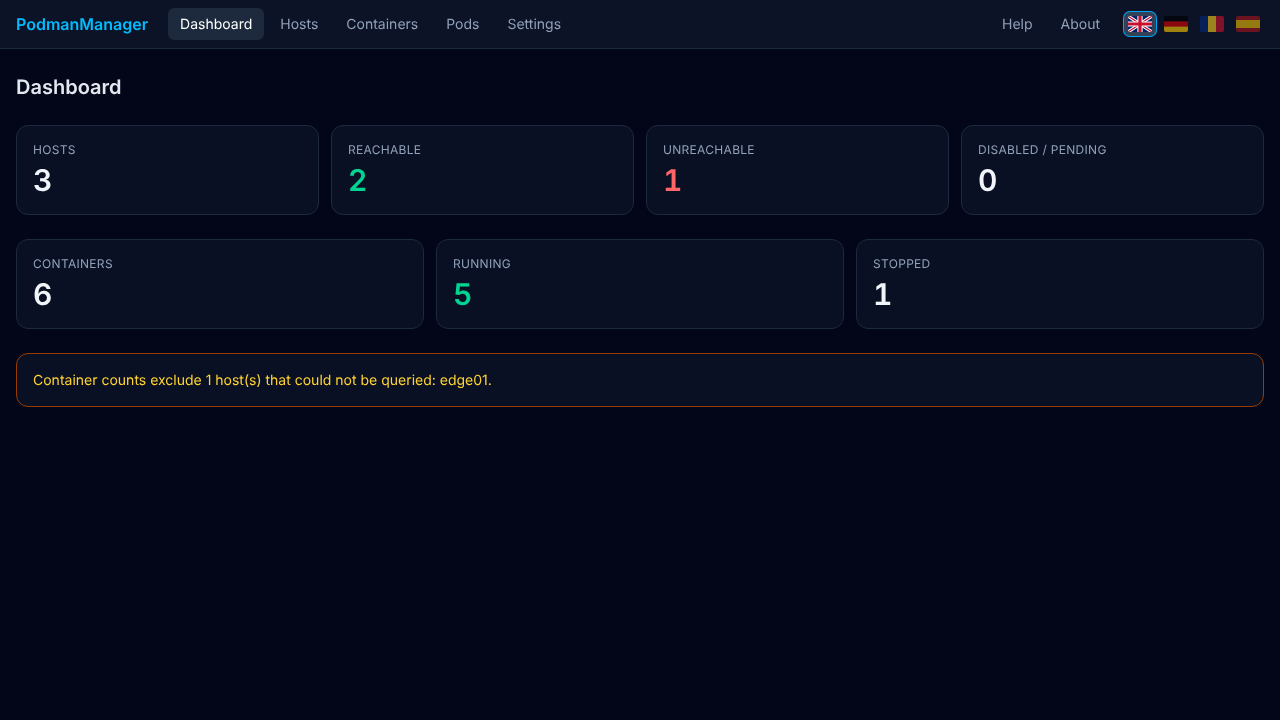
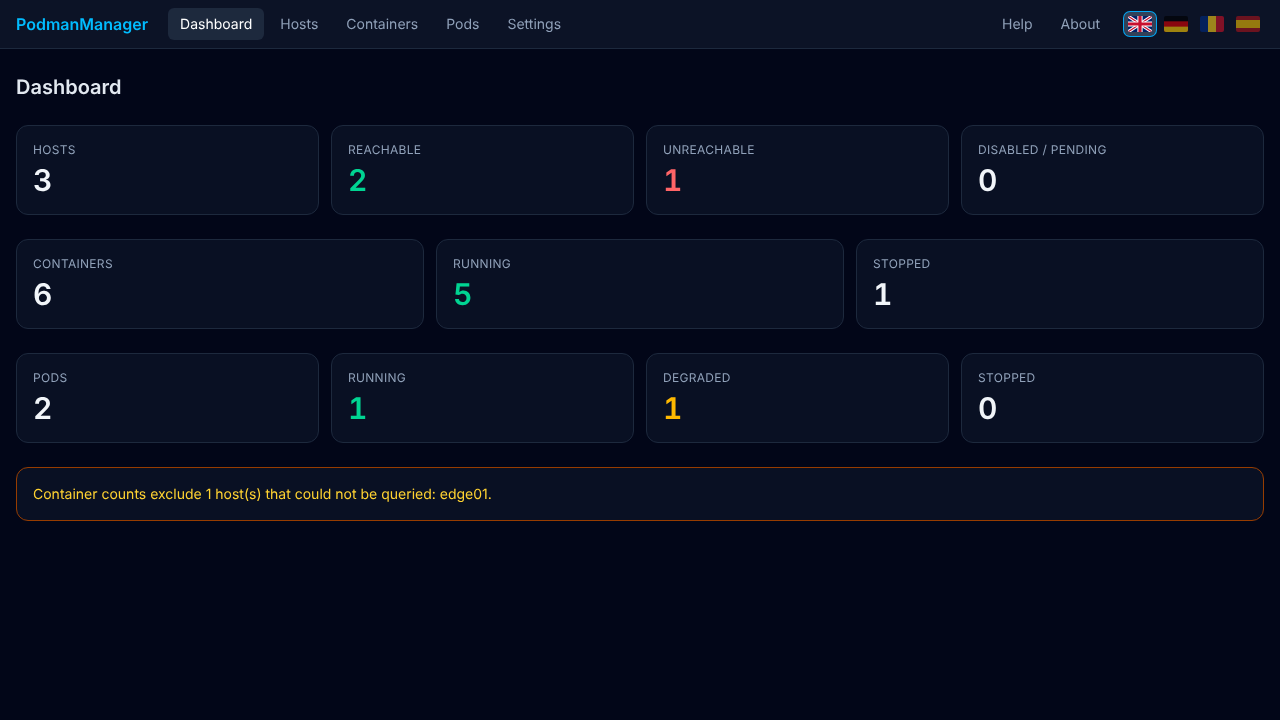
Dashboard: pod statistics (pods, running, degraded, stopped) (#35)
Shown below the container statistics; agents that do not answer the pod query (older than 0.6.0)
are listed in a note. README dashboard screenshots refreshed.

Claude-Session: https://claude.ai/code/session_01Mw1eJcjz1zhTj6DqA4m2yv

diff --git a/apps/master/src/lib/i18n.ts b/apps/master/src/lib/i18n.ts
@@ -15,6 +15,11 @@ const en = {
   "dash.other": "Disabled / pending", "dash.containers": "Containers", "dash.running": "Running", "dash.stopped": "Stopped",
   "dash.excluded": "Container counts exclude {n} host(s) that could not be queried: {names}.",
   "dash.empty": "No hosts registered yet. Add an agent under Hosts.",
+  "dash.pods": "Pods",
+  "dash.podsRunning": "Running",
+  "dash.podsDegraded": "Degraded",
+  "dash.podsStopped": "Stopped",
+  "dash.podsExcluded": "Pod counts exclude {n} agent(s) that did not answer the pod query (agent older than 0.6.0?): {names}.",
   "hosts.title": "Hosts", "hosts.hostname": "Hostname", "hosts.agentId": "Agent ID", "hosts.address": "Address",
   "hosts.status": "Status", "hosts.heartbeat": "Last heartbeat", "hosts.podman": "Podman", "hosts.containers": "Containers",
   "hosts.none": "No agents registered.", "hosts.add": "Add agent", "hosts.addrLabel": "Agent address",
@@ -189,6 +194,11 @@ const de: Dict = {
   "dash.other": "Deaktiviert / ausstehend", "dash.containers": "Container", "dash.running": "Laufend", "dash.stopped": "Gestoppt",
   "dash.excluded": "Die Container-Zahlen enthalten {n} Host(s) nicht, die nicht abgefragt werden konnten: {names}.",
   "dash.empty": "Noch keine Hosts registriert. Fügen Sie unter Hosts einen Agent hinzu.",
+  "dash.pods": "Pods",
+  "dash.podsRunning": "Laufend",
+  "dash.podsDegraded": "Eingeschränkt",
+  "dash.podsStopped": "Gestoppt",
+  "dash.podsExcluded": "Die Pod-Zahlen enthalten {n} Agent(s) nicht, die die Pod-Abfrage nicht beantwortet haben (Agent älter als 0.6.0?): {names}.",
   "hosts.title": "Hosts", "hosts.hostname": "Hostname", "hosts.agentId": "Agent-ID", "hosts.address": "Adresse",
   "hosts.status": "Status", "hosts.heartbeat": "Letzter Heartbeat", "hosts.podman": "Podman", "hosts.containers": "Container",
   "hosts.none": "Keine Agents registriert.", "hosts.add": "Agent hinzufügen", "hosts.addrLabel": "Agent-Adresse",
@@ -360,6 +370,11 @@ const ro: Dict = {
   "dash.other": "Dezactivate / în așteptare", "dash.containers": "Containere", "dash.running": "În execuție", "dash.stopped": "Oprite",
   "dash.excluded": "Numărul de containere nu include {n} gazdă/gazde care nu au putut fi interogate: {names}.",
   "dash.empty": "Nicio gazdă înregistrată încă. Adăugați un agent la Gazde.",
+  "dash.pods": "Poduri",
+  "dash.podsRunning": "În execuție",
+  "dash.podsDegraded": "Degradate",
+  "dash.podsStopped": "Oprite",
+  "dash.podsExcluded": "Numărul de poduri nu include {n} agent/agenți care nu au răspuns la interogarea podurilor (agent mai vechi decât 0.6.0?): {names}.",
   "hosts.title": "Gazde", "hosts.hostname": "Nume gazdă", "hosts.agentId": "ID agent", "hosts.address": "Adresă",
   "hosts.status": "Stare", "hosts.heartbeat": "Ultimul heartbeat", "hosts.podman": "Podman", "hosts.containers": "Containere",
   "hosts.none": "Niciun agent înregistrat.", "hosts.add": "Adaugă agent", "hosts.addrLabel": "Adresa agentului",
@@ -531,6 +546,11 @@ const es: Dict = {
   "dash.other": "Desactivados / pendientes", "dash.containers": "Contenedores", "dash.running": "En ejecución", "dash.stopped": "Detenidos",
   "dash.excluded": "El recuento de contenedores excluye {n} host(s) que no se pudieron consultar: {names}.",
   "dash.empty": "Aún no hay hosts registrados. Añade un agente en Hosts.",
+  "dash.pods": "Pods",
+  "dash.podsRunning": "En ejecución",
+  "dash.podsDegraded": "Degradados",
+  "dash.podsStopped": "Detenidos",
+  "dash.podsExcluded": "El recuento de pods excluye {n} agente(s) que no respondieron a la consulta de pods (¿agente anterior a 0.6.0?): {names}.",
   "hosts.title": "Hosts", "hosts.hostname": "Nombre de host", "hosts.agentId": "ID del agente", "hosts.address": "Dirección",
   "hosts.status": "Estado", "hosts.heartbeat": "Último heartbeat", "hosts.podman": "Podman", "hosts.containers": "Contenedores",
   "hosts.none": "No hay agentes registrados.", "hosts.add": "Añadir agente", "hosts.addrLabel": "Dirección del agente",

diff --git a/apps/master/src/app/(app)/page.tsx b/apps/master/src/app/(app)/page.tsx
@@ -1,4 +1,4 @@
-import { fetchAllContainers } from "@/lib/agents";
+import { fetchAllContainers, fetchAllPods } from "@/lib/agents";
 import { getT } from "@/lib/lang";
 import { allowedAgentIds, groupNames } from "@/lib/groups";
 import { hiddenPatternsFor } from "@/lib/hidden";
@@ -10,7 +10,9 @@ export const dynamic = "force-dynamic";
 export default async function Dashboard() {
   const session = await requireAuth();
   const t = await getT();
-  const hosts = await fetchAllContainers(undefined, allowedAgentIds(session), hiddenPatternsFor(session));
+  const allowed = allowedAgentIds(session);
+  const hidden = hiddenPatternsFor(session);
+  const [hosts, podHosts] = await Promise.all([fetchAllContainers(undefined, allowed, hidden), fetchAllPods(undefined, allowed, hidden)]);
   const total = hosts.length;
   const reachable = hosts.filter((h) => h.agent.enabled && (h.agent.status === "online" || h.agent.status === "degraded")).length;
   const unreachable = hosts.filter((h) => h.agent.enabled && h.agent.status === "offline").length;
@@ -19,6 +21,11 @@ export default async function Dashboard() {
   const all = known.flatMap((h) => (h.result.ok ? h.result.data : []));
   const running = all.filter((c) => c.state === "running").length;
   const missing = total - known.length;
+  const pods = podHosts.flatMap((h) => (h.result.ok ? h.result.data : []));
+  const podRunning = pods.filter((p) => p.status === "running").length;
+  const podDegraded = pods.filter((p) => p.status === "degraded").length;
+  // Hosts whose containers could be read but whose pods could not (e.g. agent older than 0.6.0).
+  const podsMissing = podHosts.filter((h) => !h.result.ok && h.agent.enabled && hosts.some((c) => c.agent.id === h.agent.id && c.result.ok));
 
   return (
     <div className="space-y-6">
@@ -35,6 +42,17 @@ export default async function Dashboard() {
         <Stat label={t("dash.running")} value={running} tone="ok" />
         <Stat label={t("dash.stopped")} value={all.length - running} />
       </section>
+      <section className="grid grid-cols-2 gap-3 md:grid-cols-4">
+        <Stat label={t("dash.pods")} value={pods.length} />
+        <Stat label={t("dash.podsRunning")} value={podRunning} tone="ok" />
+        <Stat label={t("dash.podsDegraded")} value={podDegraded} tone={podDegraded ? "warn" : undefined} />
+        <Stat label={t("dash.podsStopped")} value={pods.length - podRunning - podDegraded} />
+      </section>
+      {podsMissing.length > 0 && (
+        <p className="card border-amber-800 text-sm text-amber-300">
+          {t("dash.podsExcluded", { n: podsMissing.length, names: podsMissing.map((h) => h.agent.agent_id).join(", ") })}
+        </p>
+      )}
       {missing > 0 && (
         <p className="card border-amber-800 text-sm text-amber-300">
           {t("dash.excluded", { n: missing, names: hosts.filter((h) => !h.result.ok).map((h) => h.agent.hostname).join(", ") })}
